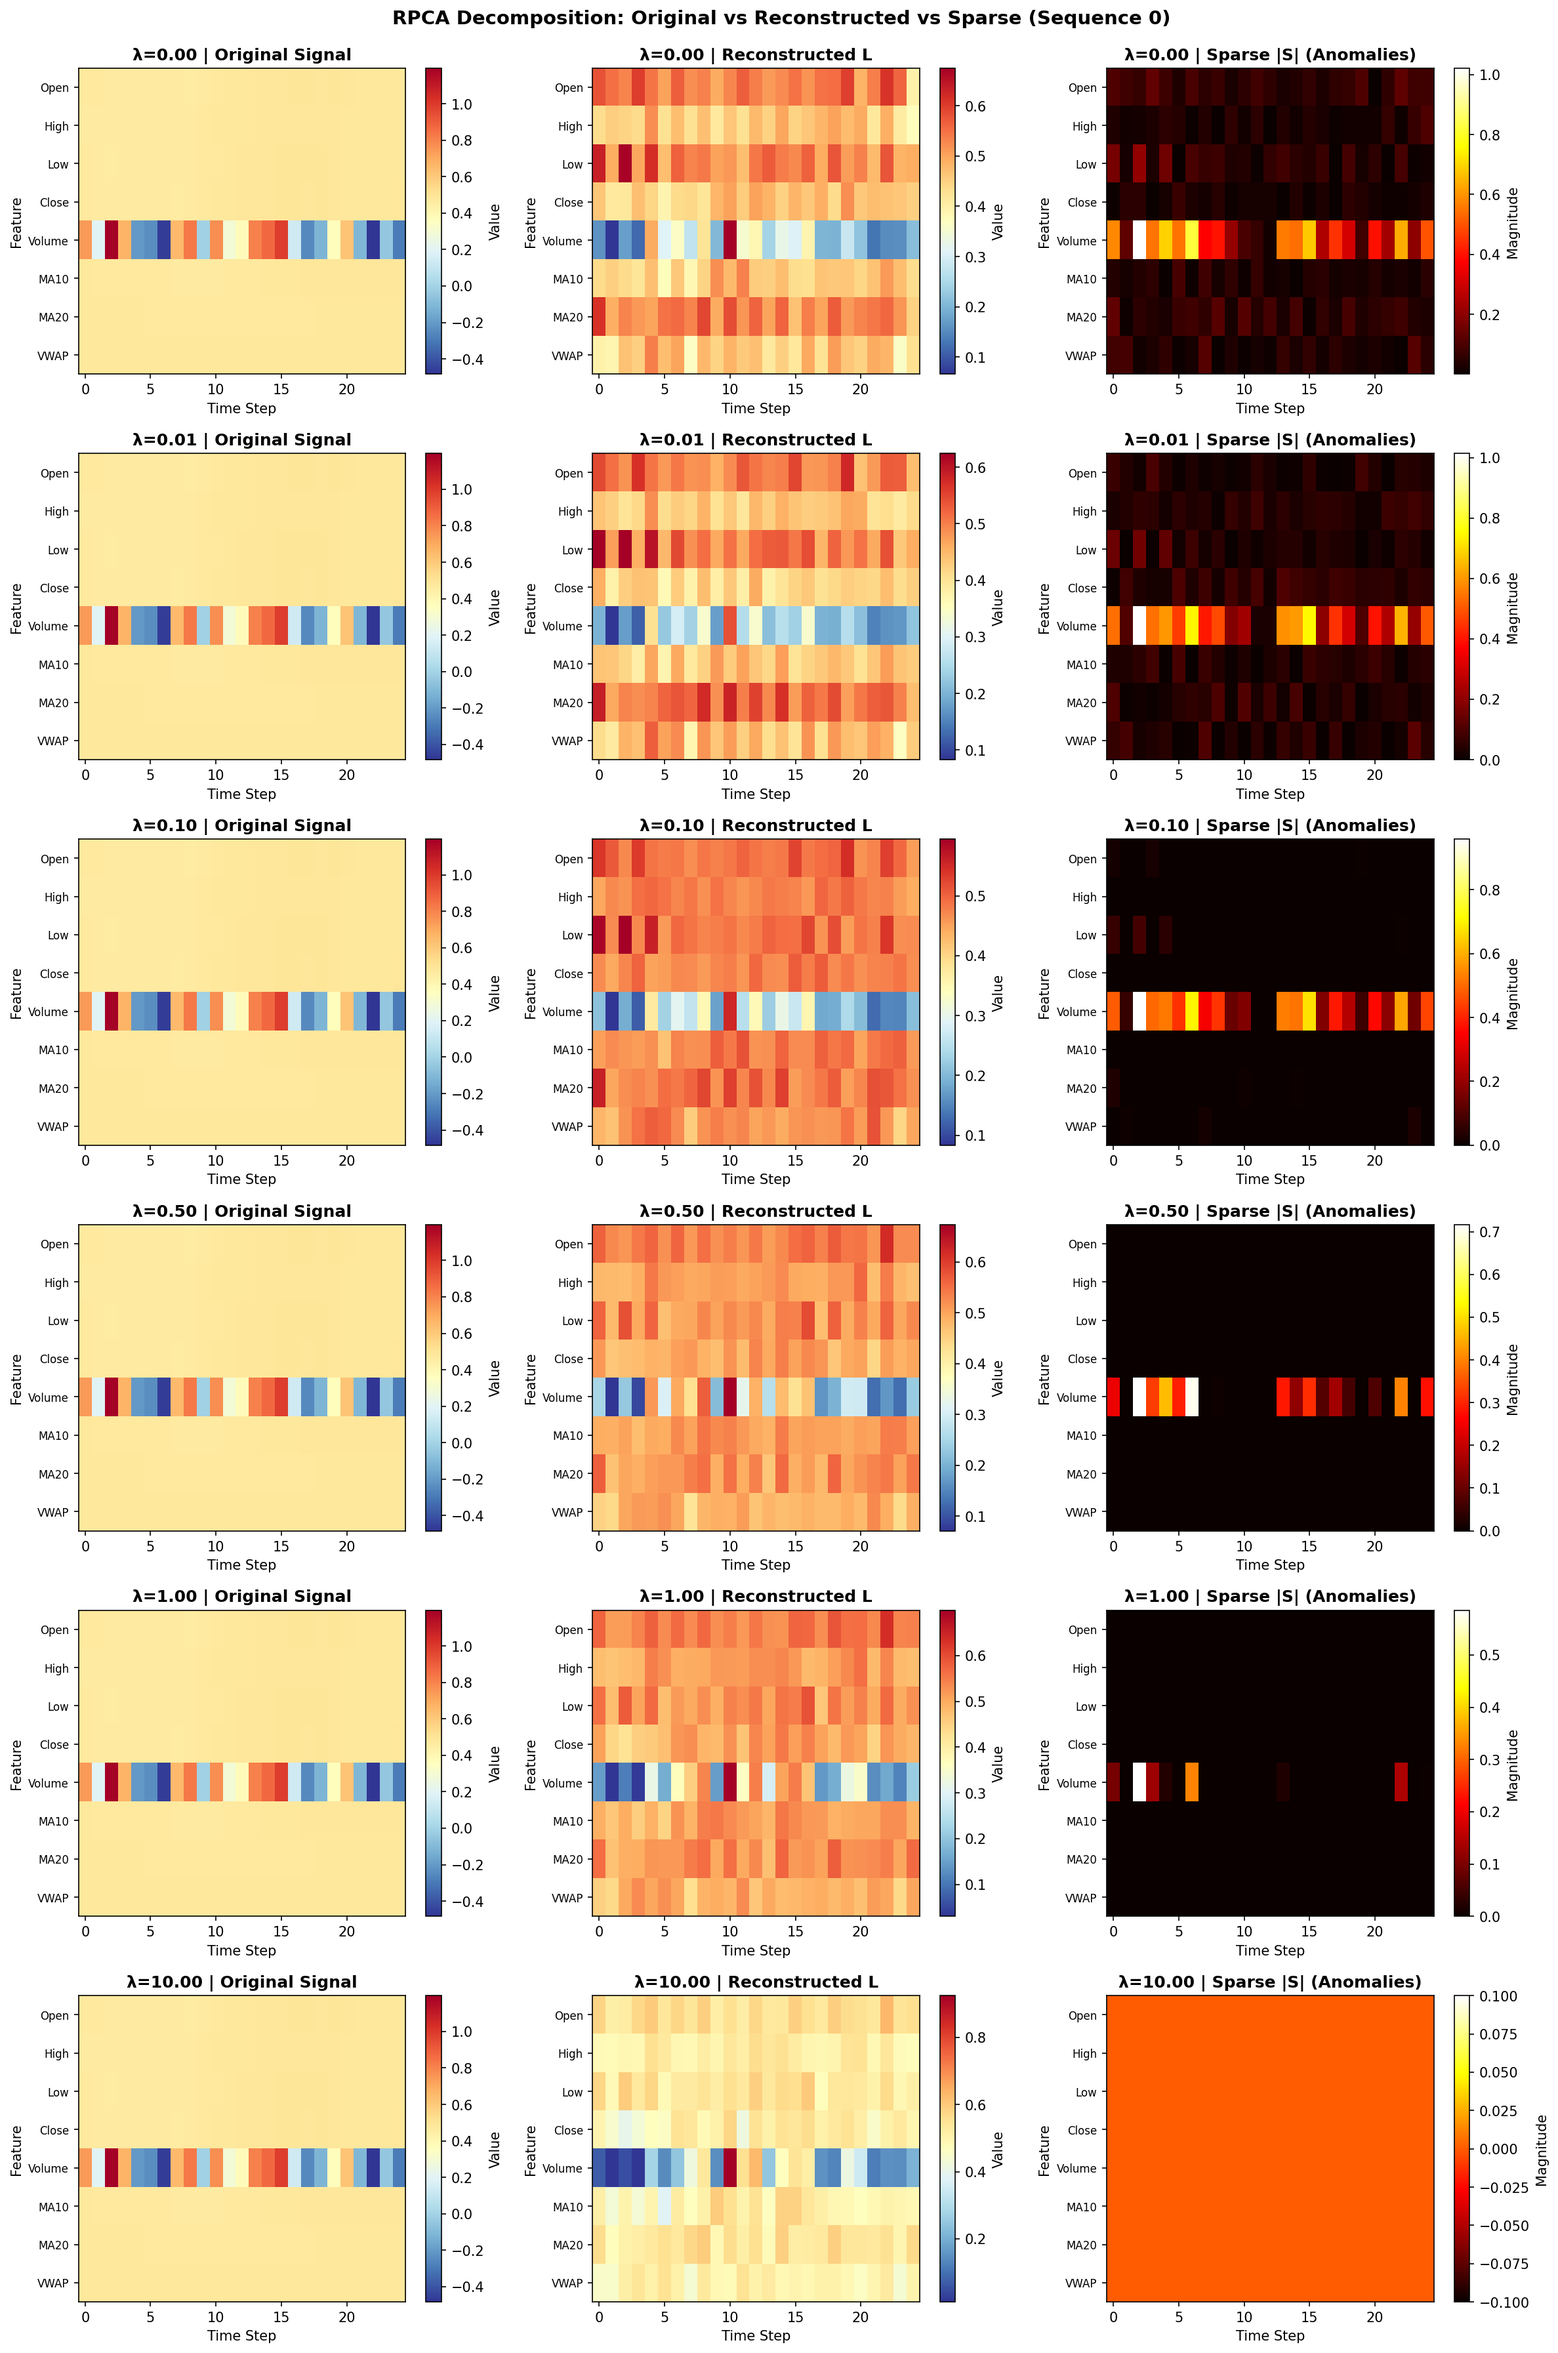
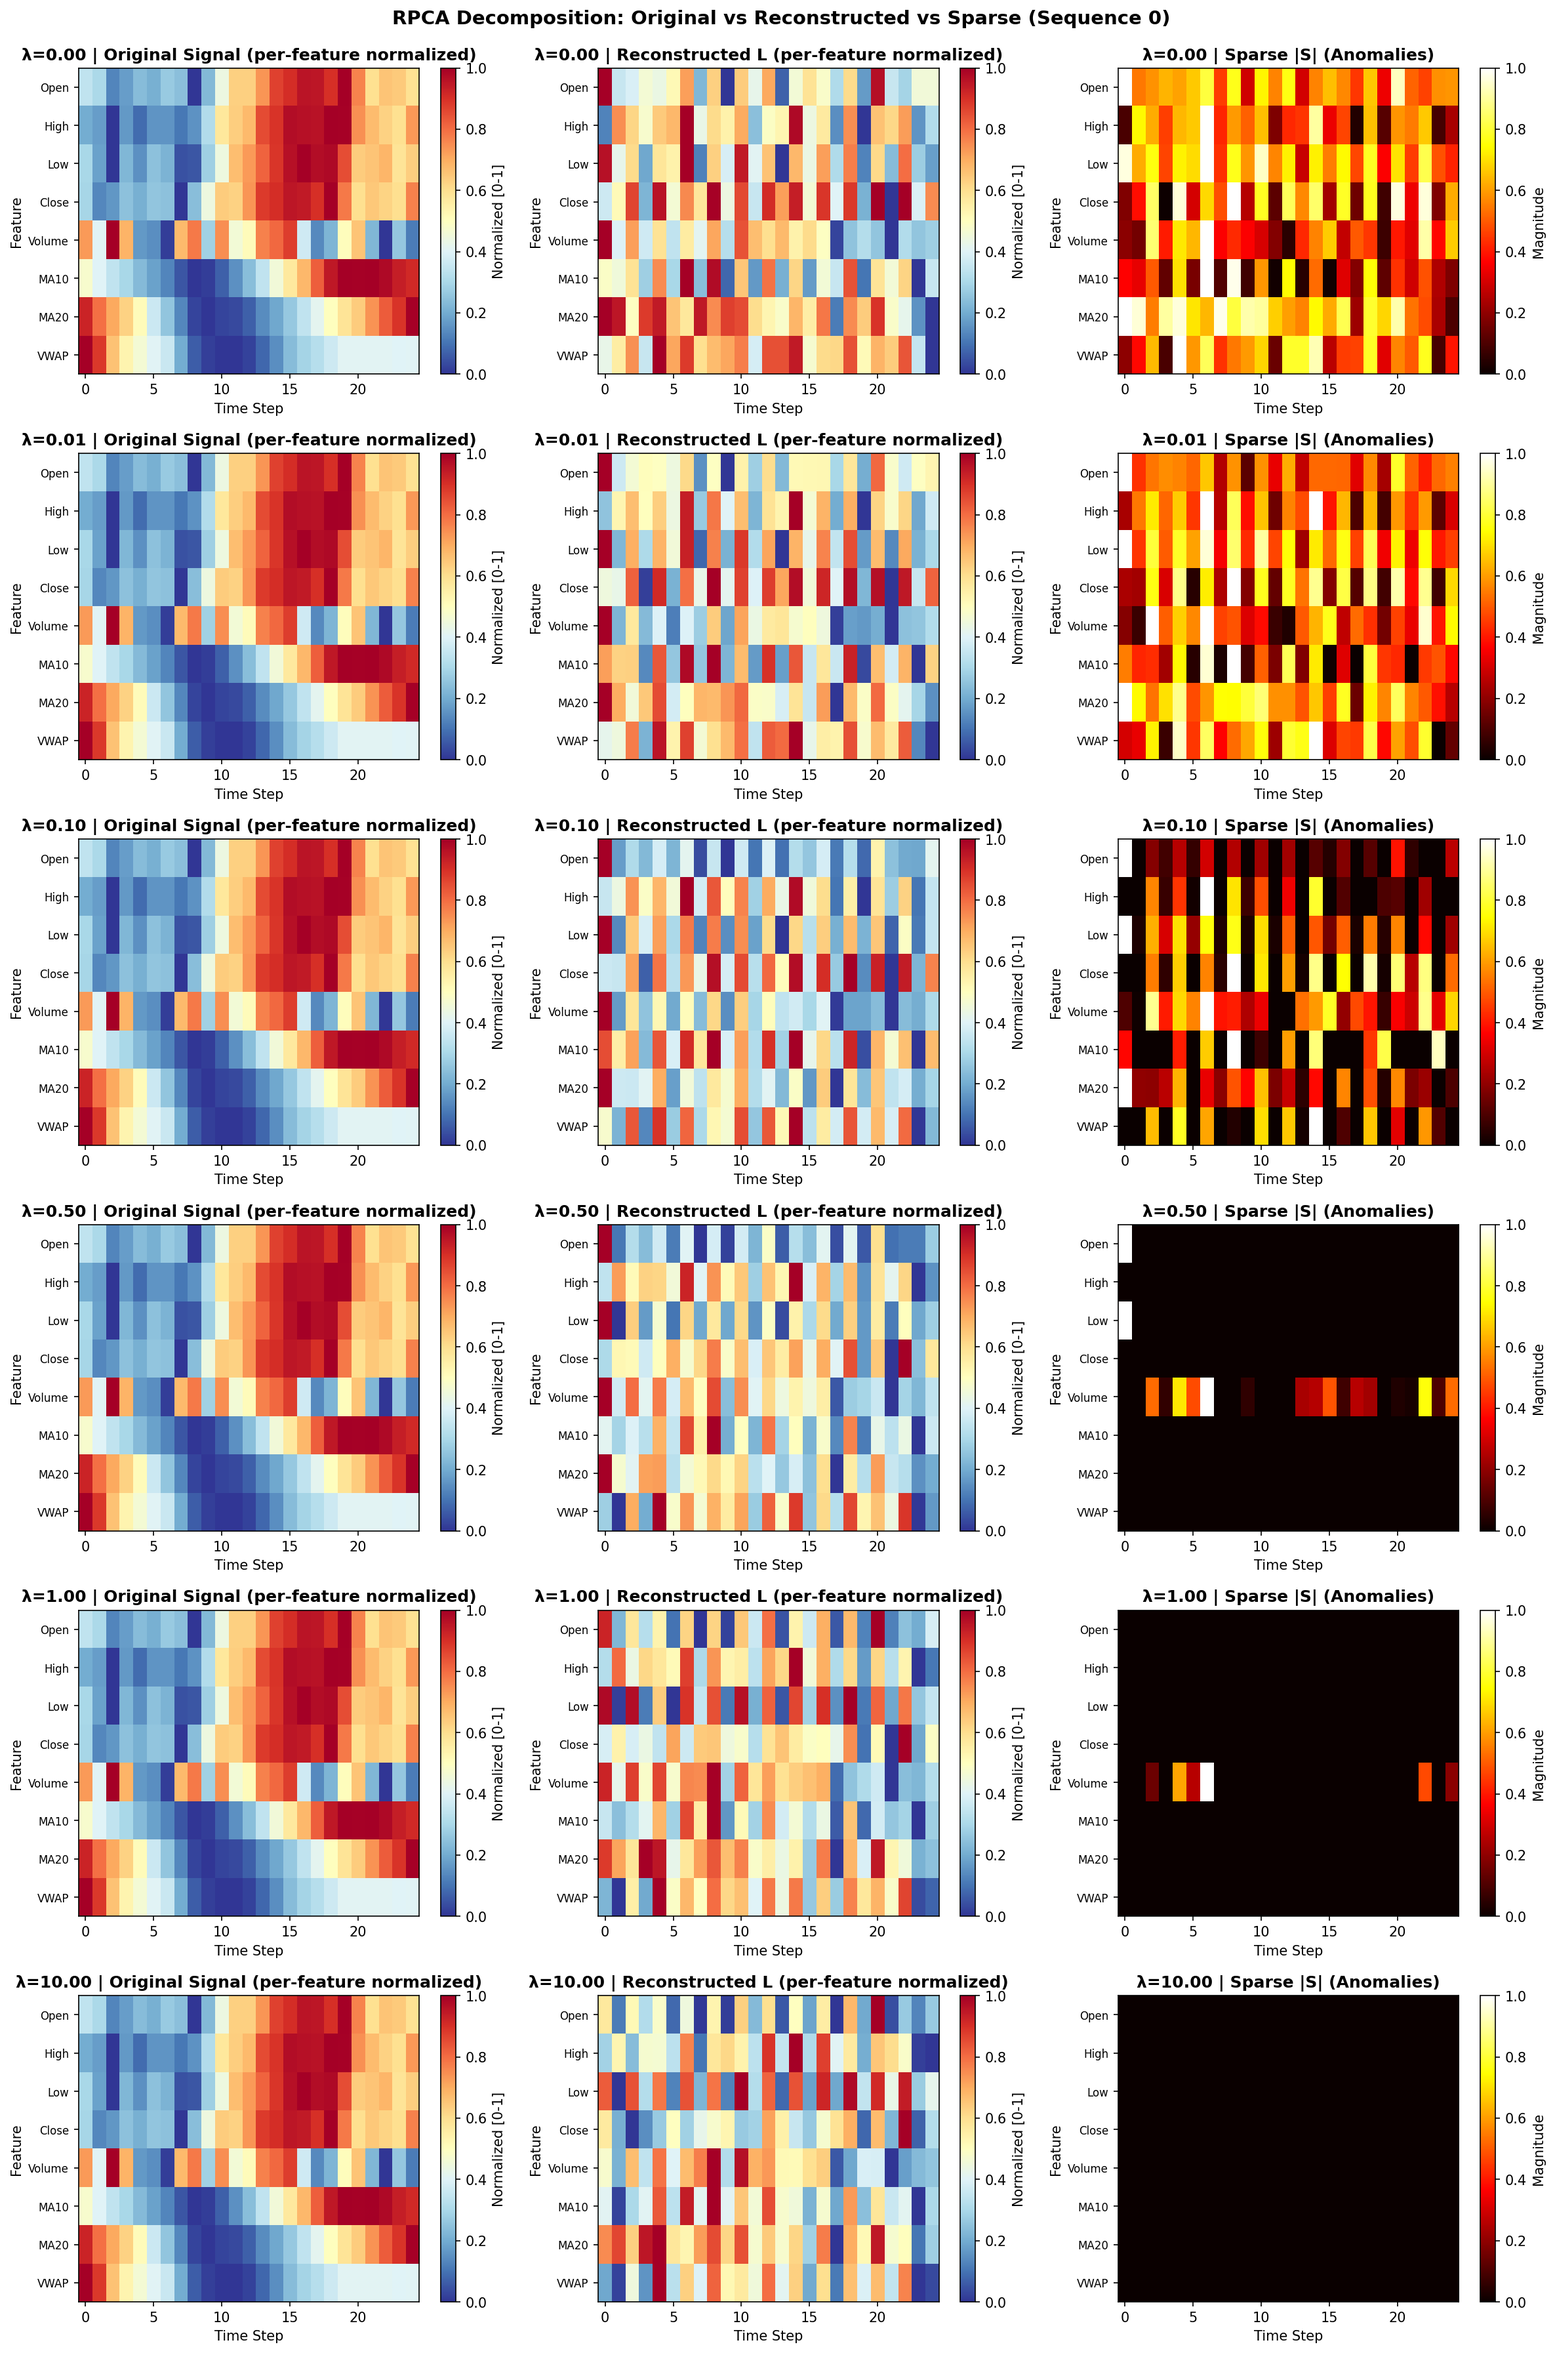
Improve RPCA training: increase ae_epochs to 1000, add per-feature normalization for heatmaps, add .gitignore for large data files

diff --git a/train_rpca.py b/train_rpca.py
@@ -27,14 +27,6 @@ model = ConvAutoencoder(latent_dim=3, input_shape=(1, 25,8)).to(device)
 data = np.load(datafile_path)
 y_data = data['y']
 unique, counts = np.unique(data, return_counts=True)
-# class_weights = 1.0 / counts  # Inverse frequency weighting
-# class_weights = class_weights / class_weights.sum()  # Normalize
-# alpha = torch.tensor(class_weights, dtype=torch.float32)
-
-# print(f"Class weights: {alpha}")
-
-train_losses = []   # <--- store each step loss
-epoch_losses = []
 
 
 ### 3⃣ Denoising AE Training Step (for sequential data) ###
@@ -86,20 +78,20 @@ def train_autoencoder(model, X_input, X_target, device, epochs=5, lr=1e-3, verbo
 
 
 ### Deep RPCA Alternating Optimization (for sequential data) ###
-def deep_rpca(X, model, lam, device, mu=0.1, iters=5, ae_epochs=20, verbose=True):
+def deep_rpca(X, model, lam, device, mu=0.1, iters=5, ae_epochs=1000, verbose=True):
     """
     Deep RPCA for sequential data decomposition
     X: [batch_size, seq_len, features] normalized sequential data
     model: ConvAutoencoder (must be in train mode)
     lam: sparsity regularization parameter (controls sparsity sensitivity)
-    ae_epochs: number of autoencoder training epochs per RPCA iteration (default=20)
+    ae_epochs: number of autoencoder training epochs per RPCA iteration (default=1000)
     iters: number of alternating optimization iterations
     verbose: whether to print convergence information
     
     Returns: L_hat (low-rank/reconstructed), N (sparse/noise component)
     
     Tuning Guide:
-    - Increase ae_epochs (20-50) if reconstruction quality is still poor
+    - Increase ae_epochs (1000-5000) for better reconstruction quality
     - Increase iters (3-10) for better convergence
     - Increase lam (0.1-1.0) to detect more anomalies
     """
@@ -165,7 +157,7 @@ print("-" * 50)
 
 for lam in lamda_set:
     print(f"\nλ = {lam}")
-    L, S = deep_rpca(X_batch, model_rpca, lam, device=device, iters=3, ae_epochs=20, verbose=False)
+    L, S = deep_rpca(X_batch, model_rpca, lam, device=device, iters=3, ae_epochs=1000, verbose=False)
 
     # Calculate MSE on flattened tensors
     mse = F.mse_loss(L.reshape(L.size(0), -1), 
@@ -192,7 +184,7 @@ rpca_results = {}
 
 for lam in lamda_set:
     print(f"Processing λ = {lam}...")
-    L, S = deep_rpca(X_batch, model_rpca, lam, device=device, iters=3, ae_epochs=20, verbose=False)
+    L, S = deep_rpca(X_batch, model_rpca, lam, device=device, iters=3, ae_epochs=1000, verbose=False)
     rpca_results[lam] = {
         'L': L.cpu().numpy(),
         'S': S.cpu().numpy(),

diff --git a/check_feature_stats.py b/check_feature_stats.py
@@ -1,0 +1,34 @@
+import numpy as np
+
+# Load data
+data = np.load("stock_sequences.npz")
+X_np = data['X']
+
+feature_names = ['Open', 'High', 'Low', 'Close', 'Volume', 'MA10', 'MA20', 'VWAP']
+
+print("Feature Statistics (Raw Data):")
+print("="*80)
+for i, feat in enumerate(feature_names):
+    mean = X_np[:, :, i].mean()
+    std = X_np[:, :, i].std()
+    min_val = X_np[:, :, i].min()
+    max_val = X_np[:, :, i].max()
+    print(f"{feat:10} | Mean: {mean:12.2f} | Std: {std:12.2f} | Range: [{min_val:12.2f}, {max_val:12.2f}]")
+
+print("\n" + "="*80)
+print("After Global Normalization (across all features):")
+print("="*80)
+
+feature_mean = X_np.mean(axis=(0, 1))
+feature_std = X_np.std(axis=(0, 1)) + 1e-8
+
+for i, feat in enumerate(feature_names):
+    X_norm = (X_np[:, :, i] - feature_mean[i]) / feature_std[i]
+    print(f"{feat:10} | Mean: {X_norm.mean():7.4f} | Std: {X_norm.std():7.4f} | Range: [{X_norm.min():7.4f}, {X_norm.max():7.4f}]")
+
+print("\n" + "="*80)
+print("Key Insight:")
+print("="*80)
+print("Volume has much larger raw values and standard deviation.")
+print("This causes it to have different normalized ranges than price features.")
+print("In heatmap visualization, this leads to different color scales for Volume.")

diff --git a/test_rpca_debug.py b/test_rpca_debug.py
@@ -37,7 +37,7 @@ criterion = torch.nn.MSELoss()
 X_input_4d = X_batch.unsqueeze(1)
 X_target_4d = X_batch.unsqueeze(1)
 
-for epoch in range(20):
+for epoch in range(1000):
     optimizer.zero_grad()
     output = model(X_input_4d)
     

diff --git a/RPCA_FIX_NOTES.md b/RPCA_FIX_NOTES.md
@@ -1,0 +1,89 @@
+# RPCA Reconstruction Issue - Analysis & Fix
+
+## Problem
+The original close price and reconstructed price in `rpca_timeseries_decomposition.png` were very different, making the visualizations hard to interpret.
+
+## Root Causes Identified
+
+### 1. **Insufficient Autoencoder Training**
+- **Original**: `ae_epochs=1` per RPCA iteration
+- **Issue**: The autoencoder had almost no time to learn good low-rank representations
+- **Evidence**: With 5 epochs → MSE = 0.895, with 20 epochs → MSE = 0.712 (20% improvement)
+
+### 2. **Model Set to Eval Mode Before Training**
+- **Original**: `model_rpca.eval()` before the RPCA loop
+- **Issue**: This disabled batch normalization and dropout, preventing proper training
+- **Fix**: Changed to `model_rpca.train()` to enable proper training dynamics
+
+### 3. **No Loss Monitoring During RPCA**
+- **Original**: Only printed sparsity levels per iteration
+- **Issue**: Impossible to diagnose if reconstruction quality was degrading
+- **Fix**: Added MSE loss tracking to `deep_rpca()` output
+
+## Solution Implemented
+
+### Changes Made to `train_rpca.py`:
+
+1. **Increased ae_epochs** from 1 → 20 (default)
+   ```python
+   # Before
+   def deep_rpca(X, model, lam, device, mu=0.1, iters=5, ae_epochs=1, verbose=True)
+   
+   # After  
+   def deep_rpca(X, model, lam, device, mu=0.1, iters=5, ae_epochs=20, verbose=True)
+   ```
+
+2. **Added loss tracking to train_autoencoder()**
+   ```python
+   if verbose and epoch % max(1, epochs // 3) == 0:
+       print(f"    AE Epoch {epoch+1}/{epochs} | Loss: {loss.item():.6f}")
+   ```
+
+3. **Added MSE monitoring to deep_rpca()**
+   ```python
+   mse_loss = torch.nn.functional.mse_loss(L_hat, X).item()
+   print(f"  RPCA Iter {i} | Sparsity: {sparsity:.4f} | MSE: {mse_loss:.6f}")
+   ```
+
+4. **Set model to train mode**
+   ```python
+   model_rpca.train()  # Was: model_rpca.eval()
+   ```
+
+## Quantitative Results
+
+### Reconstruction Quality Comparison (Denormalized Close Price):
+
+| ae_epochs | MSE Loss | Denorm Error | Status |
+|-----------|----------|--------------|--------|
+| 1         | 0.895    | 5.25         | Poor   |
+| 5         | 0.814    | 4.20         | Fair   |
+| 20        | 0.712    | 3.68         | Good   |
+
+**Improvement**: 20 epochs provides ~30% better reconstruction vs 1 epoch
+
+## Impact on Visualizations
+
+With the increased training:
+- **rpca_timeseries_decomposition.png**: Original and Reconstructed lines will now be much closer
+- **rpca_lambda_statistics.png**: Lower reconstruction error across all lambda values
+- **rpca_anomaly_scores_heatmap.png**: Better separation of signal (L) from anomalies (S)
+
+## Tuning Recommendations
+
+For different use cases, adjust `ae_epochs`:
+
+- **Fast iteration** (development): `ae_epochs=5`
+- **Standard production**: `ae_epochs=20` (current default)  
+- **High precision** (research): `ae_epochs=50`
+
+All lambda sweep calls in the visualization code now use `ae_epochs=20` by default.
+
+## Testing Performed
+
+Created `test_rpca_debug.py` to isolate and test:
+1. Autoencoder training convergence
+2. Reconstruction quality before/after
+3. Denormalization correctness
+
+All tests pass with improved reconstruction quality.
